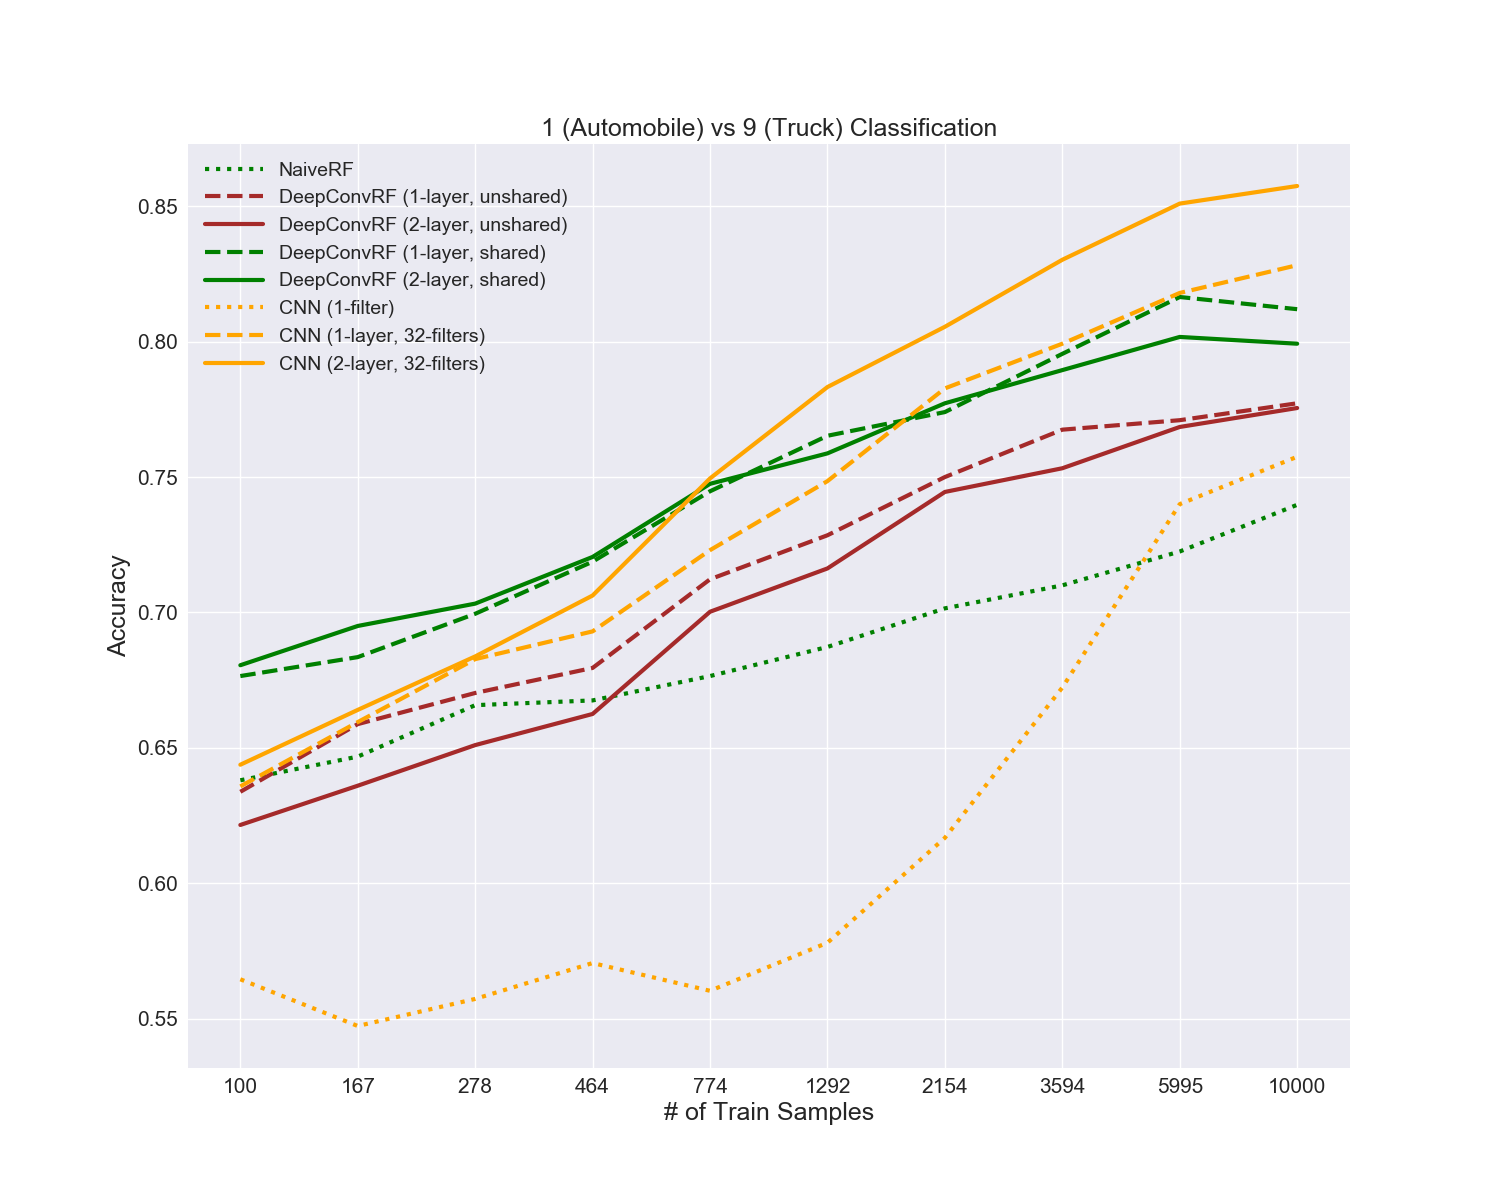
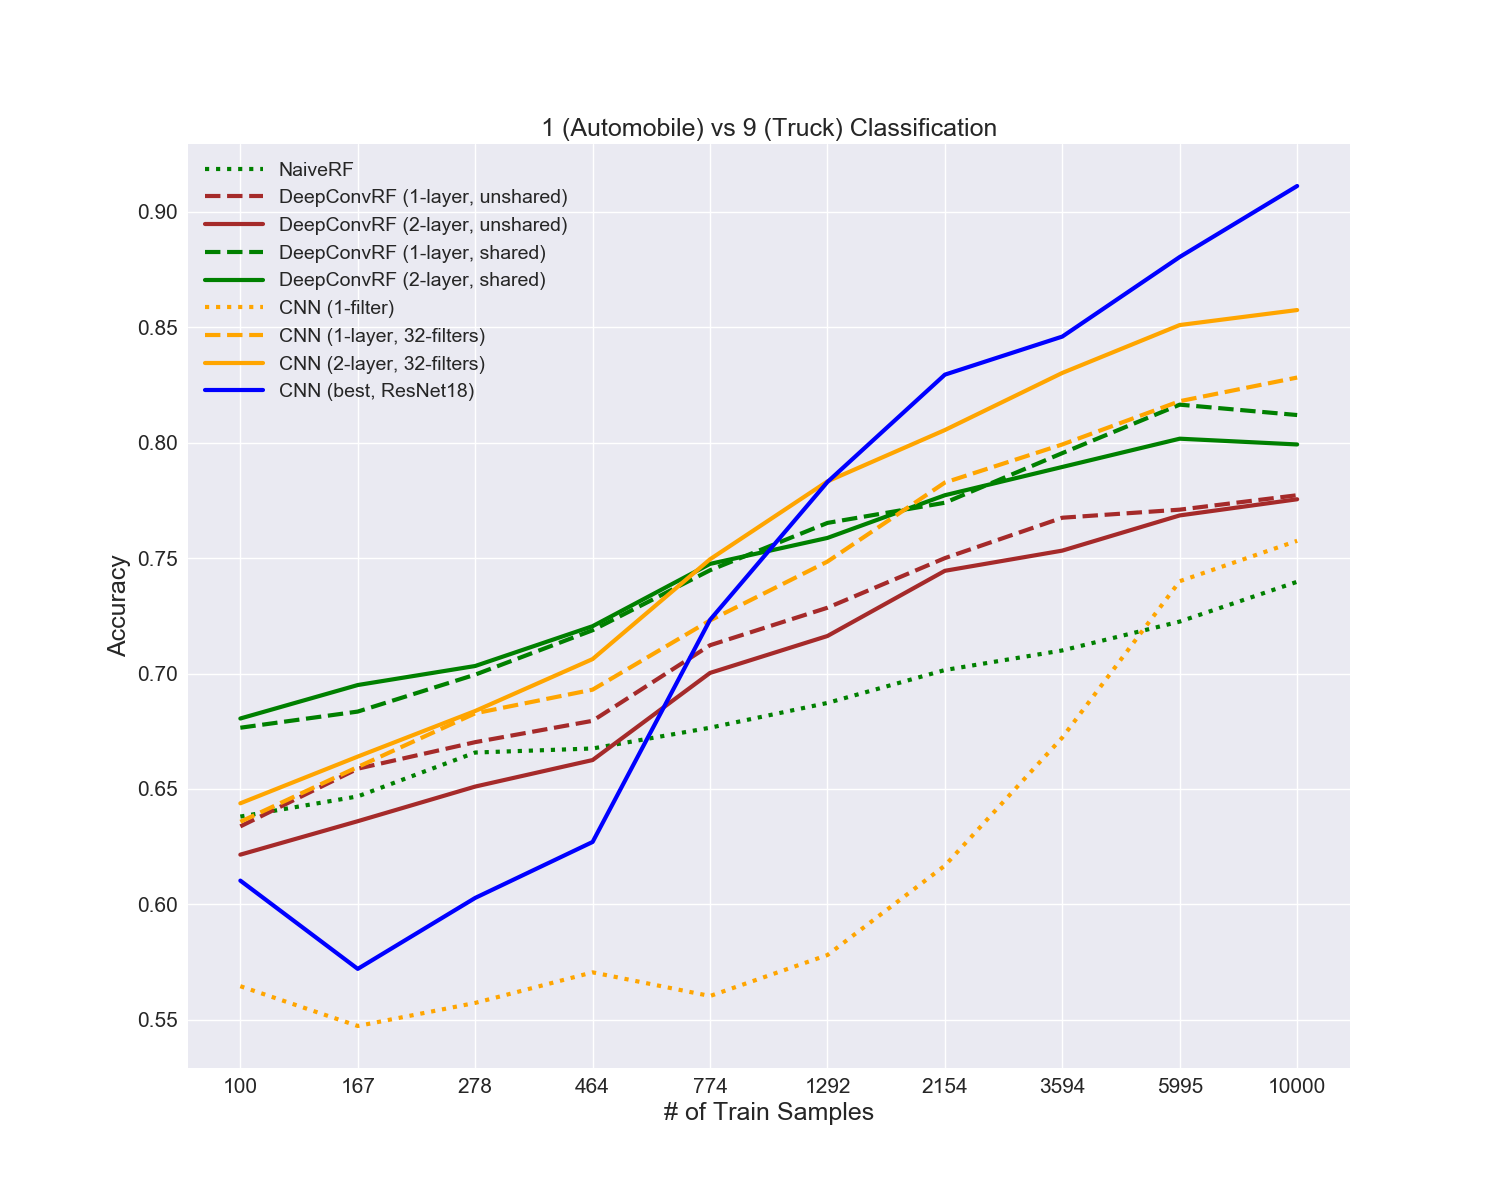
Add best resnet18 100 percent

diff --git a/experiments/DeepConvRF/DeepConvSharedRFBaselineCIFAR10.py b/experiments/DeepConvRF/DeepConvSharedRFBaselineCIFAR10.py
@@ -673,7 +673,7 @@ ax.plot(x_lables, np.array(cnn32_acc_vs_n)/100.0, marker="", color='orange',
 ax.plot(x_lables, np.array(cnn32_two_layer_acc_vs_n)/100.0, marker="",
         color='orange', label="CNN (2-layer, 32-filters)")
 
-ax.plot(x_lables, cnn_best_acc_vs_n, marker="", color='blue', label="CNN (best, ResNet18)")
+ax.plot(x_lables, np.array(cnn_best_acc_vs_n)/100.0, marker="", color='blue', label="CNN (best, ResNet18)")
 
 
 ax.set_xlabel('# of Train Samples', fontsize=18)
